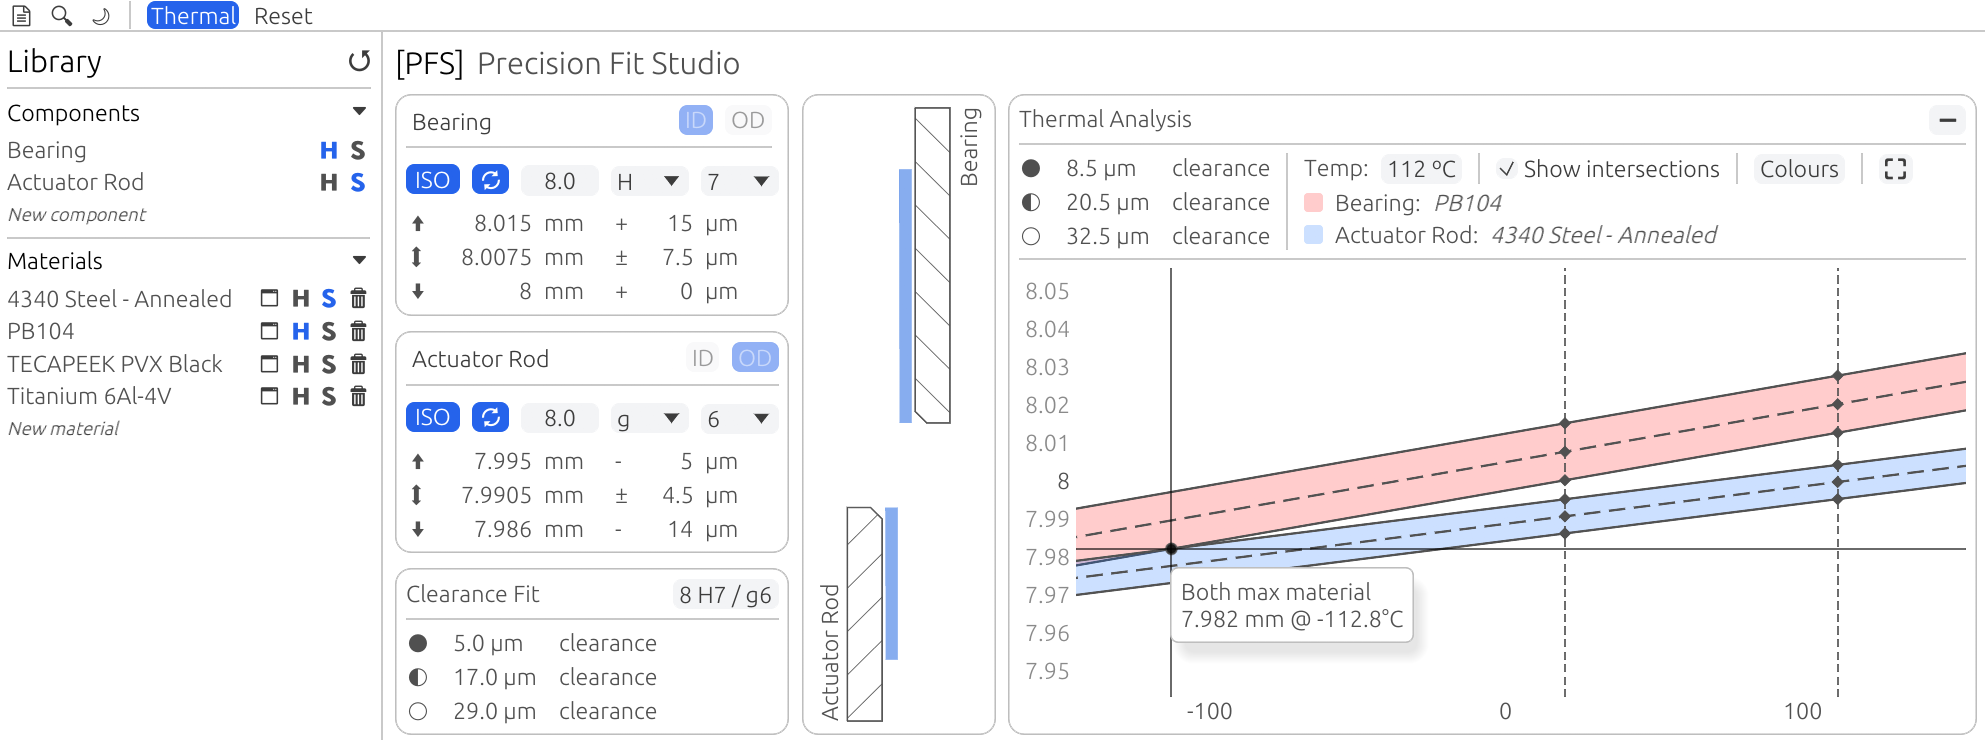
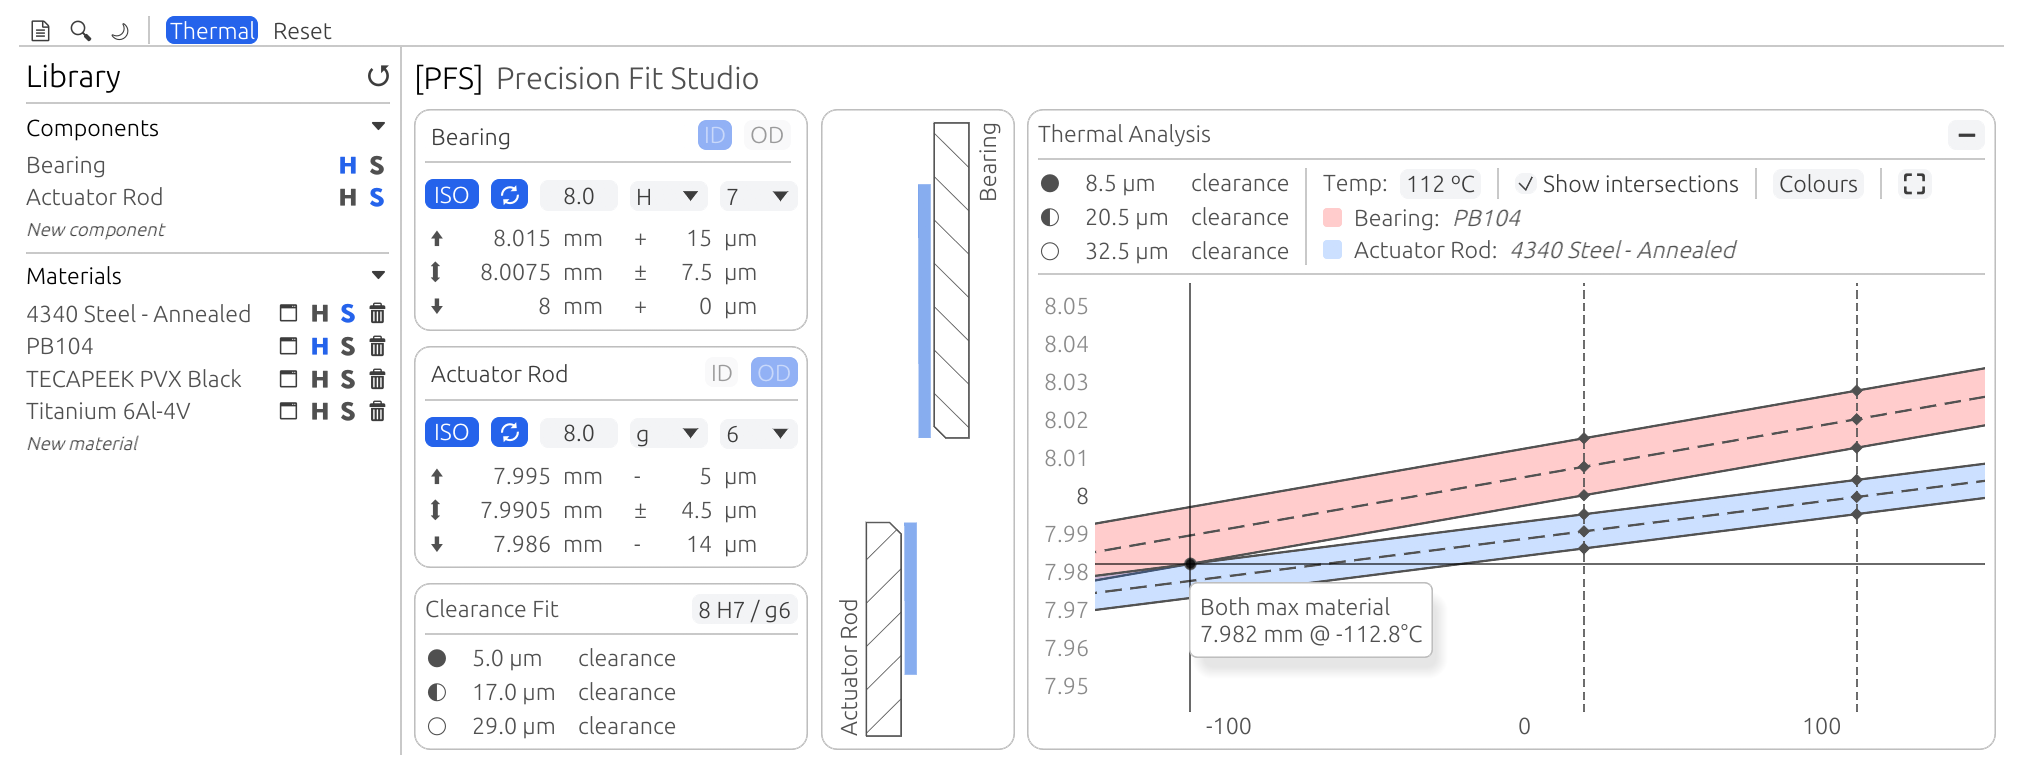
Quick image padding change

Changed region(s): [[0.0, 0.0, 0.9995, 0.9946], [0.4997, 0.4662, 0.9995, 0.9324], [0.4997, 0.4351, 0.531, 0.6216]]

diff --git a/styles.css b/styles.css
@@ -60,11 +60,9 @@ header {
     background: linear-gradient(
         90deg,
         transparent 0%,
-        color-mix(in srgb, var(--accent-primary) 60%, transparent)
-            40%,
+        color-mix(in srgb, var(--accent-primary) 60%, transparent) 40%,
         var(--accent-primary) 50%,
-        color-mix(in srgb, var(--accent-primary) 60%, transparent)
-            60%,
+        color-mix(in srgb, var(--accent-primary) 60%, transparent) 60%,
         transparent 100%
     );
     background-size: 200% 100%;
